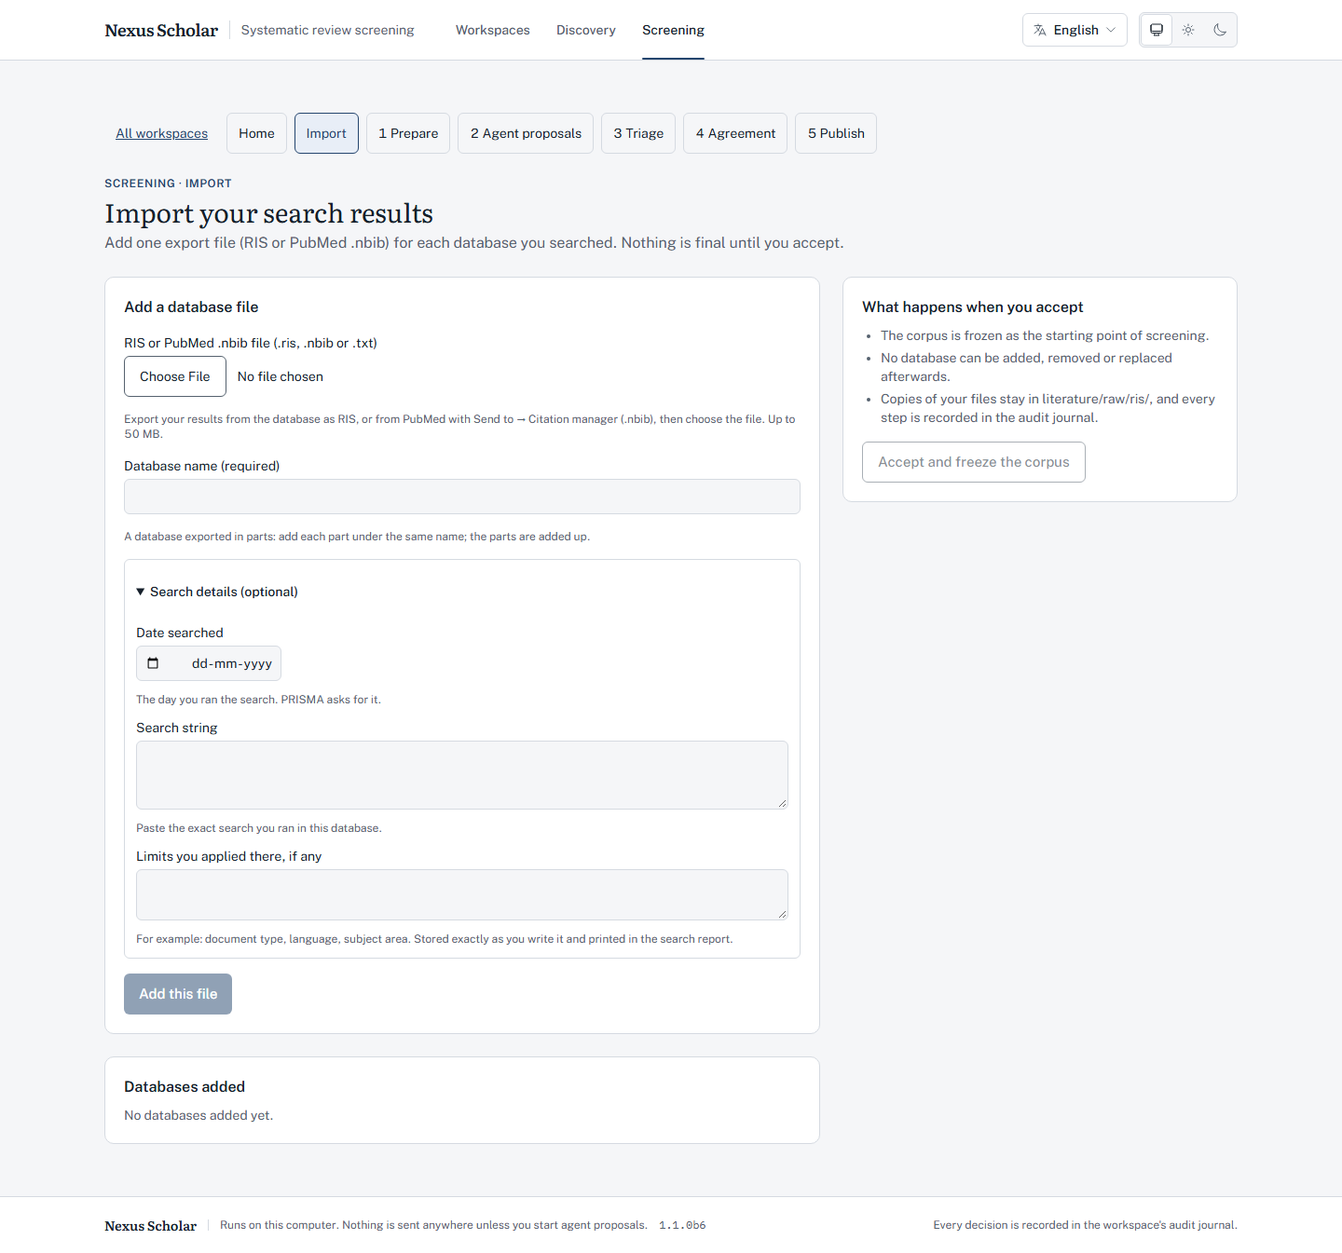
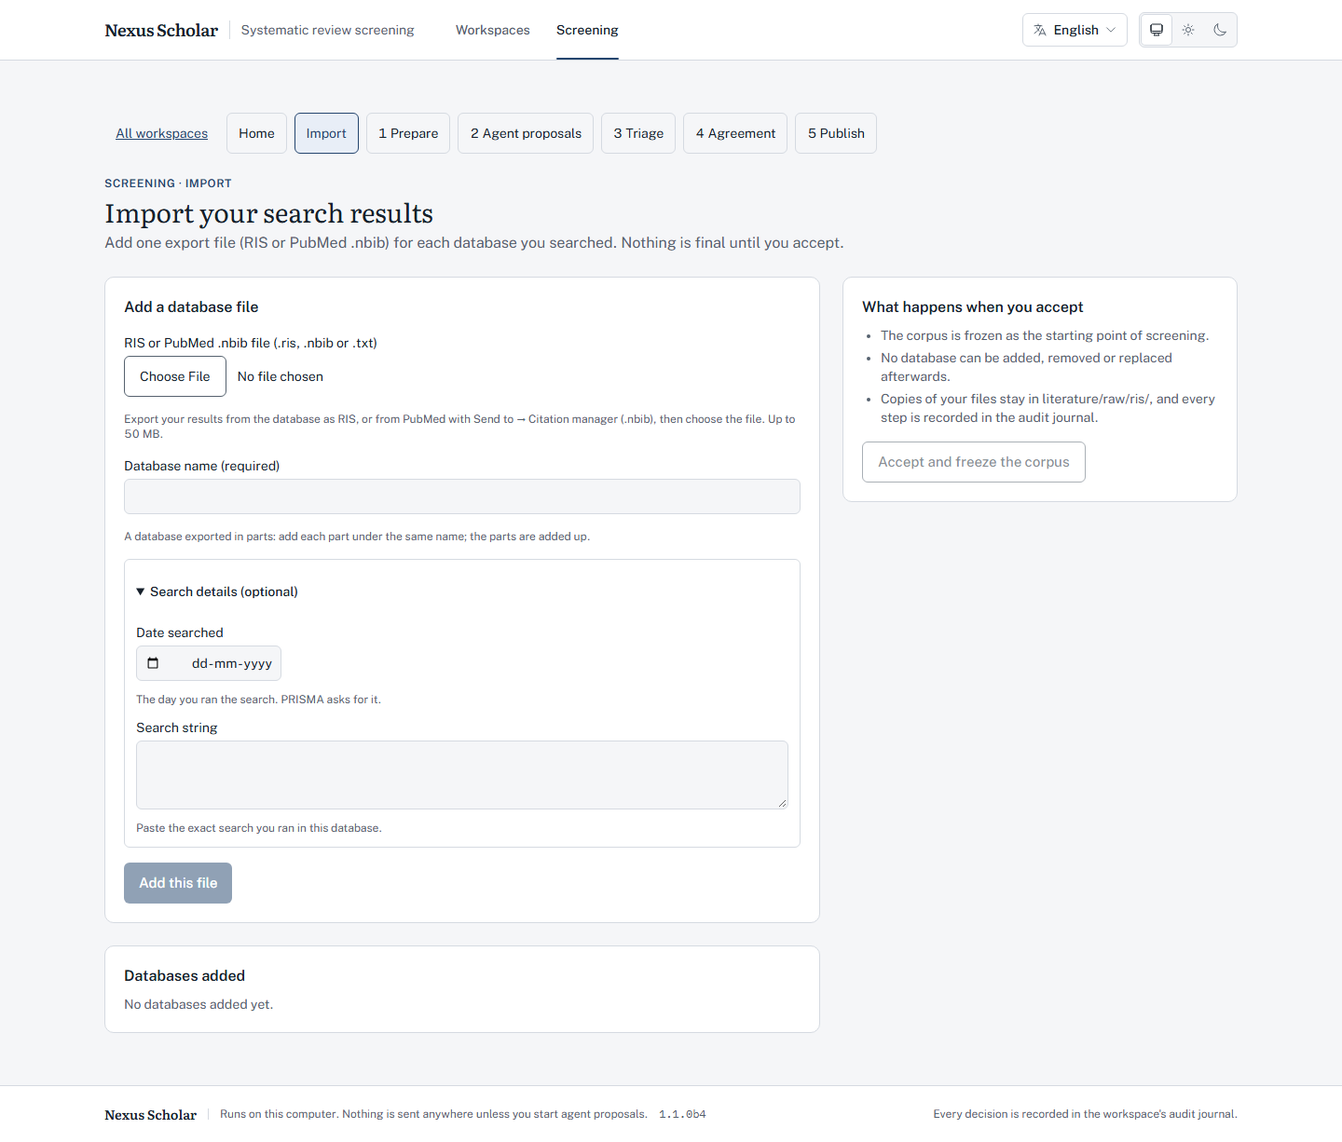
fix(m3g): tie a pending round snapshot to the chase that built it
Review of fcc3557e (CHANGES): with two unaccepted chases on one parent,
pending_accept named the newest one, whose accept then archived the round on
the other's behalf and left a snapshot pending for good. The accept now writes
`pending_round` into its chase.json before the acceptance gate (undone on a
gate refusal), with the SCREENING_ROUND_ARCHIVE_INCOMPLETE journal row as the
fallback; a snapshot counts only while its chase's parent is the current
round's corpus; accepting any other chase is refused CHASE_ACCEPT_PENDING, and
the resume uses the same ownership. Malformed chase.json files are skipped
instead of answering 500. Reverts the 13 screenshots the Playwright run
regenerated in 84723cd4. Lane recorded as RELEASE.

diff --git a/apps/research-ui/lib/screening-states.ts b/apps/research-ui/lib/screening-states.ts
@@ -807,9 +807,9 @@ export const STATES: Record<string, StateEntry> = {
     role: "blocked",
     action: "none",
     copy: {
-      en: T("Finish sending the last chase to screening first.", "An earlier accept registered the next round's corpus but stopped before the round was archived. A new chase would start from records nobody has screened. Accept that chase again; it resumes where it stopped.", "Starting the chase", "Accept the earlier chase again"),
-      fr: T("Terminez d'abord l'envoi de la dernière chasse à la sélection.", "Une acceptation précédente a enregistré le corpus du tour suivant mais s'est arrêtée avant l'archivage du tour. Une nouvelle chasse partirait de notices que personne n'a sélectionnées. Acceptez à nouveau cette chasse ; elle reprend là où elle s'est arrêtée.", "Le lancement de la chasse", "Accepter à nouveau la chasse précédente"),
-      ar: T("أكمل أولًا إرسال المطاردة الأخيرة إلى الفرز.", "سجّل قبولٌ سابق مجموعة الجولة التالية لكنه توقف قبل أرشفة الجولة. ستبدأ مطاردة جديدة من سجلات لم يفرزها أحد. اقبل تلك المطاردة مجددًا؛ فهي تستأنف من حيث توقفت.", "بدء المطاردة", "اقبل المطاردة السابقة مجددًا"),
+      en: T("Finish sending the last chase to screening first.", "An earlier accept registered the next round's corpus but stopped before the round was archived. A new chase, or sending another chase, would build on records nobody has screened. Accept that chase again; it resumes where it stopped.", "Continuing citation chasing", "Accept the earlier chase again"),
+      fr: T("Terminez d'abord l'envoi de la dernière chasse à la sélection.", "Une acceptation précédente a enregistré le corpus du tour suivant mais s'est arrêtée avant l'archivage du tour. Une nouvelle chasse, ou l'envoi d'une autre chasse, s'appuierait sur des notices que personne n'a sélectionnées. Acceptez à nouveau cette chasse ; elle reprend là où elle s'est arrêtée.", "La poursuite de la chasse aux citations", "Accepter à nouveau la chasse précédente"),
+      ar: T("أكمل أولًا إرسال المطاردة الأخيرة إلى الفرز.", "سجّل قبولٌ سابق مجموعة الجولة التالية لكنه توقف قبل أرشفة الجولة. ستُبنى مطاردة جديدة، أو إرسال مطاردة أخرى، على سجلات لم يفرزها أحد. اقبل تلك المطاردة مجددًا؛ فهي تستأنف من حيث توقفت.", "مواصلة مطاردة الاستشهادات", "اقبل المطاردة السابقة مجددًا"),
     },
   },
   PROTOCOL_CHANGED_SINCE_PUBLISH: {

diff --git a/src/scholar_harness/pipeline/citation_chase.py b/src/scholar_harness/pipeline/citation_chase.py
@@ -355,32 +355,26 @@ def _corpus_entry(ws: Path, artifact_id: str) -> dict[str, Any] | None:
     return {"artifact_id": artifact_id, **entry}
 
 
-def _pending_round_snapshot(
-    ws: Path, parent_id: str, current_round_corpus: str | None, *, recorded: frozenset[str] = frozenset()
-) -> str | None:
-    """A registered corpus snapshot built on ``parent_id`` that no round records yet, or ``None``.
-
-    That is the state an accept leaves when its archive step fails after the
-    acceptance gate registered the next round's snapshot. ``recorded`` names
-    snapshots the rounds index already records, which are never pending.
-    """
-    registry = ws / "audit" / "artifact_registry.json"
+def _archive_incomplete_snapshots(ws: Path) -> dict[str, list[str]]:
+    """Chase name -> snapshot ids from its ``SCREENING_ROUND_ARCHIVE_INCOMPLETE`` journal rows."""
+    out: dict[str, list[str]] = {}
     try:
-        entries = json.loads(registry.read_text(encoding="utf-8")).get("artifacts", {})
-    except (OSError, ValueError):
-        return None
-    for artifact_id, entry in entries.items():
-        if not isinstance(entry, dict) or entry.get("artifact_type") != "corpus_snapshot":
-            continue
-        if artifact_id in (parent_id, current_round_corpus) or artifact_id in recorded:
+        lines = (ws / "audit" / "journal.jsonl").read_text(encoding="utf-8").splitlines()
+    except OSError:
+        return out
+    for line in lines:
+        if "SCREENING_ROUND_ARCHIVE_INCOMPLETE" not in line:
             continue
         try:
-            artifact = json.loads((ws / entry["path"]).read_text(encoding="utf-8"))
-        except (OSError, ValueError, KeyError, TypeError):
+            row = json.loads(line)
+        except ValueError:
             continue
-        if any(isinstance(i, dict) and i.get("artifact_id") == parent_id for i in artifact.get("inputs") or []):
-            return artifact_id
-    return None
+        params = row.get("parameters") if isinstance(row, dict) else None
+        if row.get("action") != "SCREENING_ROUND_ARCHIVE_INCOMPLETE" or not isinstance(params, dict):
+            continue
+        if params.get("chase") and params.get("snapshot_artifact_id"):
+            out.setdefault(str(params["chase"]), []).append(str(params["snapshot_artifact_id"]))
+    return out
 
 
 def pending_accept(workspace: Path | str) -> str | None:
@@ -389,26 +383,56 @@ def pending_accept(workspace: Path | str) -> str | None:
     An accept that refused ``ARCHIVE_INCOMPLETE`` leaves the next round's
     snapshot registered but not recorded in the rounds index. That snapshot is
     then the newest one, so a new chase would take an unscreened corpus as its
-    parent; the accept has to be finished first.
+    parent, and another chase's accept would archive the round on its behalf;
+    the accept has to be finished first. The snapshot is tied to the chase that
+    built it (the ``pending_round`` its accept writes into ``chase.json`` before
+    the acceptance gate, else that chase's ``SCREENING_ROUND_ARCHIVE_INCOMPLETE``
+    journal row), and it counts only while the chase's parent is still the
+    current round's corpus.
     """
     from scholar_harness.screening import rounds
 
     ws = Path(workspace)
     index = rounds.read_rounds(ws)
-    current_corpus = index["current"].get("corpus_artifact_id")
+    current = index.get("current") if isinstance(index.get("current"), dict) else {}
+    current_corpus = current.get("corpus_artifact_id")
+    current_number = current.get("round") or 1
     recorded = frozenset(
-        str(r["corpus_artifact_id"]) for r in [index["current"], *index["rounds"]]
+        str(r["corpus_artifact_id"]) for r in [current, *(index.get("rounds") or [])]
         if isinstance(r, dict) and r.get("corpus_artifact_id")
     )
+    try:
+        entries = json.loads((ws / "audit" / "artifact_registry.json").read_text(encoding="utf-8")).get("artifacts", {})
+    except (OSError, ValueError, AttributeError):
+        return None
+    if not isinstance(entries, dict):
+        return None
+    registered = {
+        aid for aid, e in entries.items() if isinstance(e, dict) and e.get("artifact_type") == "corpus_snapshot"
+    }
+    journaled: dict[str, list[str]] | None = None
     for run_dir in chase_dirs(ws):
         try:
             manifest = read_manifest(run_dir)
         except (OSError, ValueError):
             continue
-        if manifest.get("accepted"):
+        if not isinstance(manifest, dict) or manifest.get("accepted"):
             continue
-        declared = (manifest.get("parent_corpus") or {}).get("artifact_id")
-        if declared and _pending_round_snapshot(ws, str(declared), current_corpus, recorded=recorded):
+        parent = manifest.get("parent_corpus")
+        declared = parent.get("artifact_id") if isinstance(parent, dict) else None
+        if not declared:
+            continue
+        # Only a chase on the current round's corpus can still finish its round.
+        if current_corpus and declared != current_corpus:
+            continue
+        if not current_corpus and current_number != 1:
+            continue
+        marker = manifest.get("pending_round")
+        owned = [str(marker["artifact_id"])] if isinstance(marker, dict) and marker.get("artifact_id") else []
+        if journaled is None:
+            journaled = _archive_incomplete_snapshots(ws)
+        owned += journaled.get(run_dir.name, [])
+        if any(aid in registered and aid not in recorded and aid != declared for aid in owned):
             return run_dir.name
     return None
 
@@ -882,6 +906,15 @@ def accept_citation_chase(
     rows = json.loads((run_dir / "new.json").read_text(encoding="utf-8"))
     if not isinstance(rows, list) or not rows:
         raise ChaseRefused(f"{run_dir.name} found nothing new to screen", "CHASE_NOTHING_NEW")
+    owner = pending_accept(ws)
+    if owner is not None and owner != run_dir.name:
+        # Review R6 #2: another chase's round snapshot is registered and waits for
+        # its archive; this accept must not finish that round on its behalf.
+        raise ChaseRefused(
+            f"the accept of {owner} registered the next round's corpus but stopped before the round was archived; "
+            f"finish that accept first: run `chase accept --chase {owner}` again",
+            "CHASE_ACCEPT_PENDING",
+        )
 
     try:
         workspace_id = _workspace_id(ws)
@@ -927,10 +960,10 @@ def accept_citation_chase(
     if manifest.get("generation_id") and manifest["generation_id"] != generation_id:
         raise ChaseRefused("the screening was published again after this chase ran; run the chase again", "CHASE_STALE")
     declared = (manifest.get("parent_corpus") or {}).get("artifact_id")
-    # Re-review: a retry after ARCHIVE_INCOMPLETE is recognised from the registry,
-    # whichever archive step failed: the round's snapshot was registered (its
-    # ``inputs`` name this chase's parent) but the rounds index does not record it.
-    pending = bool(declared) and _pending_round_snapshot(ws, declared, current.get("corpus_artifact_id")) is not None
+    # Re-review: a retry after ARCHIVE_INCOMPLETE is recognised whichever archive
+    # step failed: this chase's round snapshot was registered (its ``pending_round``
+    # marker or its journal row names it) but the rounds index does not record it.
+    pending = owner == run_dir.name
     if (resumed or pending) and declared:
         # The round's snapshot was registered before the move stopped, so the
         # newest snapshot is no longer the parent: the parent is the declared one.
@@ -982,6 +1015,12 @@ def accept_citation_chase(
     entries = json.loads(registry.read_text(encoding="utf-8")).get("artifacts", {}) if registry.is_file() else {}
     already = artifact["artifact_id"] in entries
     if not already:
+        # The owner marker is written before the gate, so a snapshot that gets
+        # registered is always tied to this chase (review R6); a refusal undoes it.
+        manifest_path = run_dir / "chase.json"
+        before = manifest_path.read_text(encoding="utf-8")
+        manifest["pending_round"] = {"round": number, "artifact_id": artifact["artifact_id"]}
+        manifest_path.write_text(_dump(manifest), encoding="utf-8")
         result = accept_artifact(
             ws, artifact,
             expected=AcceptanceContext(
@@ -991,6 +1030,7 @@ def accept_citation_chase(
             actor="nexus-scholar-chase-accept",
         )
         if not result.accepted:
+            manifest_path.write_text(before, encoding="utf-8")
             issues = "; ".join(f"{i.code}: {i.message}" for i in result.issues) or "no detail"
             raise ChaseRefused(f"the acceptance gate refused the round {number} snapshot ({issues})", "ACCEPT_CORPUS_REFUSED")
 
@@ -1018,6 +1058,7 @@ def accept_citation_chase(
         corpus_artifact_id=artifact["artifact_id"],
     )
     accepted_at = _now()
+    manifest.pop("pending_round", None)
     manifest["accepted"] = {
         "round": number, "artifact_id": artifact["artifact_id"], "accepted_at": accepted_at,
         "records": len(docs), "studies": len(artifact["data"]["studies"]),

diff --git a/tests/pipeline/test_chase_review_repairs.py b/tests/pipeline/test_chase_review_repairs.py
@@ -193,3 +193,64 @@ def test_r6_a_new_chase_while_an_accept_is_pending_is_refused(ws, monkeypatch):
     accepted = cc.accept_citation_chase(ws)
     assert accepted.round == 2 and parent["parent_corpus"]["artifact_id"] != accepted.artifact_id
     cc.require_no_pending_accept(ws)
+
+
+def _fail_moves(monkeypatch):
+    def failing(src, dst):
+        raise OSError("locked")
+
+    monkeypatch.setattr(rounds.shutil, "move", failing)
+
+
+def test_r6b_with_two_chases_on_one_parent_the_refusal_names_the_one_that_failed(ws, monkeypatch):
+    """Review of fcc3557e (P1, P2): the pending snapshot belongs to the chase that built it."""
+    a = ca._chase(ws, monkeypatch)
+    b = ca._chase(ws, monkeypatch, docs=[h._doc("Other", provider="openalex", pid="W9", doi="10.2/z", openalex="W9", year=2023)])
+    real_move = rounds.shutil.move
+    _fail_moves(monkeypatch)
+    with pytest.raises(cc.ChaseRefused) as exc:
+        cc.accept_citation_chase(ws, chase=a.chase)
+    assert exc.value.code == "ARCHIVE_INCOMPLETE"
+    monkeypatch.setattr(rounds.shutil, "move", real_move)
+
+    assert cc.pending_accept(ws) == a.chase
+    with pytest.raises(cc.ChaseRefused) as exc:  # the other chase may not finish a's round
+        cc.accept_citation_chase(ws, chase=b.chase)
+    assert exc.value.code == "CHASE_ACCEPT_PENDING" and a.chase in str(exc.value)
+    assert len(ca._corpora(ws)) == 2  # no third snapshot
+
+    accepted = cc.accept_citation_chase(ws, chase=a.chase)
+    assert accepted.round == 2 and cc.pending_accept(ws) is None
+    manifest = json.loads((ws / "literature" / "citation_chase" / a.chase / "chase.json").read_text(encoding="utf-8"))
+    assert "pending_round" not in manifest and manifest["accepted"]["artifact_id"] == accepted.artifact_id
+
+    # b ran on round 1's corpus: after round 2 is published it is stale, and no lockout remains.
+    cmd_prepare(ws, batch_size=20)
+    ca._publish_round(ws, "INCLUDE")
+    with pytest.raises(cc.ChaseRefused) as exc:
+        cc.accept_citation_chase(ws, chase=b.chase)
+    assert exc.value.code == "CHASE_STALE"
+    cc.require_no_pending_accept(ws)
+
+
+def test_r6c_the_owner_is_known_from_the_journal_without_the_marker(ws, monkeypatch):
+    a = ca._chase(ws, monkeypatch)
+    _fail_moves(monkeypatch)
+    with pytest.raises(cc.ChaseRefused):
+        cc.accept_citation_chase(ws, chase=a.chase)
+    path = ws / "literature" / "citation_chase" / a.chase / "chase.json"
+    manifest = json.loads(path.read_text(encoding="utf-8"))
+    manifest.pop("pending_round")  # a run accepted before the marker existed
+    path.write_text(json.dumps(manifest), encoding="utf-8")
+    assert cc.pending_accept(ws) == a.chase
+
+
+def test_r6d_malformed_manifests_are_skipped(ws, monkeypatch):
+    ca._chase(ws, monkeypatch)
+    bad = ws / "literature" / "citation_chase" / "chase_002"
+    bad.mkdir()
+    (bad / "chase.json").write_text("[1, 2]", encoding="utf-8")
+    worse = ws / "literature" / "citation_chase" / "chase_003"
+    worse.mkdir()
+    (worse / "chase.json").write_text(json.dumps({"parent_corpus": "not an object"}), encoding="utf-8")
+    assert cc.pending_accept(ws) is None

diff --git a/src/scholar_harness/console/refusals.py b/src/scholar_harness/console/refusals.py
@@ -182,7 +182,7 @@ CHASE_ALREADY_ACCEPTED = "CHASE_ALREADY_ACCEPTED"
 CHASE_STALE = "CHASE_STALE"
 CHASE_DIRECTION_INVALID = "CHASE_DIRECTION_INVALID"
 CHASE_SEEDS_INVALID = "CHASE_SEEDS_INVALID"
-#: A failed accept registered the next round's snapshot; finish it before a new chase.
+#: A failed accept registered the next round's snapshot; finish it before a new chase or another accept.
 CHASE_ACCEPT_PENDING = "CHASE_ACCEPT_PENDING"
 PROTOCOL_CHANGED_SINCE_PUBLISH = "PROTOCOL_CHANGED_SINCE_PUBLISH"
 

diff --git a/docs/roadmap/milestones/M3g-citation-chasing.md b/docs/roadmap/milestones/M3g-citation-chasing.md
@@ -27,7 +27,10 @@ Read first: `docs/architecture/DEVELOPER_COMPASS.md`; `docs/lessons/2026-10-17_u
 | R4 (P3): the round folder's `mkdir` and `round.json` write were outside the typed handling | `::test_r4_a_round_folder_that_cannot_be_made_is_archive_incomplete` | yes: `FileExistsError` escaped | yes; `ARCHIVE_INCOMPLETE`, journaled |
 | R4b (P2, re-review of `a02883b4`): a retry after `ARCHIVE_INCOMPLETE` was refused `CHASE_STALE` when the round folder or the first move had failed, leaving the workspace stuck | `test_chase_review_repairs.py::test_r4b_a_retry_after_a_round_folder_that_could_not_be_made_resumes`, `::test_r4c_a_retry_after_a_failed_first_move_resumes` | yes: `CHASE_STALE` | yes; the resume is recognised from the registry (a registered snapshot whose `inputs` name the chase's parent and that no round records), whichever step failed |
 | R5 (P3): an included row without a decision was assumed an include | `::test_r5_an_included_row_without_a_decision_is_not_a_seed` | yes | yes; listed as not chaseable, "no published decision" |
-| R6 (P3, re-review of `c45651f9`, follow-up after the merge on `dev/m3g/chase-accept-pending`): after `ARCHIVE_INCOMPLETE`, a new chase took the registered but unscreened round snapshot as its parent (`_parent_corpus` picks the newest snapshot), so a later accept would record the wrong parent | `test_chase_review_repairs.py::test_r6_a_new_chase_while_an_accept_is_pending_is_refused`, `tests/console/test_chase_api.py::test_a_new_chase_while_an_accept_is_pending_is_refused` | yes: the chase ran (`DID NOT RAISE`; the route answered 202) | yes; `pending_accept` / `require_no_pending_accept` find an unaccepted chase whose parent has a registered snapshot no round records, and `chase run` and `POST /discovery/chase/runs` refuse `CHASE_ACCEPT_PENDING` (409, names the chase) before any request; registered in `console/refusals.py`, contract §7, and the UI state card (en, fr, ar). The retry clears it |
+| R6 (P3, re-review of `c45651f9`, follow-up after the merge on `dev/m3g/chase-accept-pending`): after `ARCHIVE_INCOMPLETE`, a new chase took the registered but unscreened round snapshot as its parent (`_parent_corpus` picks the newest snapshot), so a later accept would record the wrong parent | `test_chase_review_repairs.py::test_r6_a_new_chase_while_an_accept_is_pending_is_refused`, `tests/console/test_chase_api.py::test_a_new_chase_while_an_accept_is_pending_is_refused` | yes: the chase ran (`DID NOT RAISE`; the route answered 202) | yes; `pending_accept` / `require_no_pending_accept` find an unaccepted chase whose parent has a registered snapshot no round records, and `chase run` and `POST /discovery/chase/runs` refuse `CHASE_ACCEPT_PENDING` (409, names the chase) before any request; registered in `console/refusals.py`, contract §7, and the UI state card (en, fr, ar). The retry clears it. Lane: **RELEASE** (a new refusal on a public route and the CLI; the reviewer escalated from the declared STANDARD) |
+| R6b (P1, review of `fcc3557e`): with two unaccepted chases on one parent, `pending_accept` named the newest one, whose accept then archived the round on the other's behalf and left that chase's snapshot pending for good (every later chase refused) | `test_chase_review_repairs.py::test_r6b_with_two_chases_on_one_parent_the_refusal_names_the_one_that_failed` (also covers the P2: another chase's accept is refused) | yes: `pending_accept` named `chase_002` | yes; the accept writes `pending_round` into its `chase.json` before the acceptance gate (undone on a gate refusal), so a registered snapshot is tied to its chase, with that chase's `SCREENING_ROUND_ARCHIVE_INCOMPLETE` journal row as the fallback (`::test_r6c_the_owner_is_known_from_the_journal_without_the_marker`); a snapshot counts only while the chase's parent is the current round's corpus; `accept_citation_chase` refuses `CHASE_ACCEPT_PENDING` for any other chase, and its resume uses the same ownership (the parent-`inputs` scan `_pending_round_snapshot` is gone) |
+| R6d (P3): a `chase.json` that is valid JSON but not an object made `POST /chase/runs` answer 500 | `::test_r6d_malformed_manifests_are_skipped` | yes | yes; skipped. `chase_summaries` keeps the same pattern (not repaired here) |
+| R6e (P3): the evidence commit `84723cd4` carried 13 screenshots the Playwright run regenerated | – | – | reverted to `040cf562` |
 
 ## Decisions
 Put to the researcher on 2026-11-11 with a recommendation each; every recommendation accepted the same day (relayed by the coordinating session). Recorded as [2026-11-12, Citation chasing: one level, capped forward legs, both directions, a second screening round](../../decisions.md).

diff --git a/docs/architecture/screening-api-contract.md b/docs/architecture/screening-api-contract.md
@@ -255,7 +255,7 @@ The UI reads proposals only through `GET /records/{study_id}/proposal`. The fiel
 | `CHASE_STALE` | `POST /discovery/chase/accept` | HTTP 409: the screening was published again, or a later corpus snapshot was accepted, after this chase ran; run the chase again (M3g) |
 | `CHASE_DIRECTION_INVALID` | `POST /discovery/chase/runs` | HTTP 422: a direction other than `forward` or `backward`, or none (M3g) |
 | `CHASE_SEEDS_INVALID` | `POST /discovery/chase/runs` | HTTP 422: a seed source other than `included` or `included+unclear` (M3g) |
-| `CHASE_ACCEPT_PENDING` | `POST /discovery/chase/runs` | HTTP 409: an earlier chase's accept refused `ARCHIVE_INCOMPLETE` after registering the next round's corpus snapshot, so that unscreened snapshot is the newest one and a new chase would take it as its parent; `message` names the chase. Finish the accept first (`POST /discovery/chase/accept` again) (M3g deferred P3) |
+| `CHASE_ACCEPT_PENDING` | `POST /discovery/chase/runs`, `POST /discovery/chase/accept` | HTTP 409: an earlier chase's accept refused `ARCHIVE_INCOMPLETE` after registering the next round's corpus snapshot. That unscreened snapshot is the newest one, so a new chase would take it as its parent, and another chase's accept would archive the round on its behalf; `message` names the chase that owns it. Finish that accept first (`POST /discovery/chase/accept` with that `chase` again) (M3g deferred P3) |
 | `PROTOCOL_CHANGED_SINCE_PUBLISH` | `POST /discovery/chase/accept` | HTTP 409: `protocol.json` differs from the protocol the screening was published under; the includes no longer belong to the current protocol, so screening must be redone and published before a chase is sent (M3g) |
 | `STALE_BINDING` (inception) | preview with `session_id`, genesis | HTTP 409: the draft's direction was chosen on a pool that is no longer its recon session's latest (M4c), or the draft's question, years or languages changed after it was chosen (`details.code: SCOPE_CHANGED`, `details.changes`; M4d); choose it again. The code predates M4c and is listed in the console set. |
 | `ENGINE_UNREACHABLE` | UI only | client-side state, never sent by the engine |
